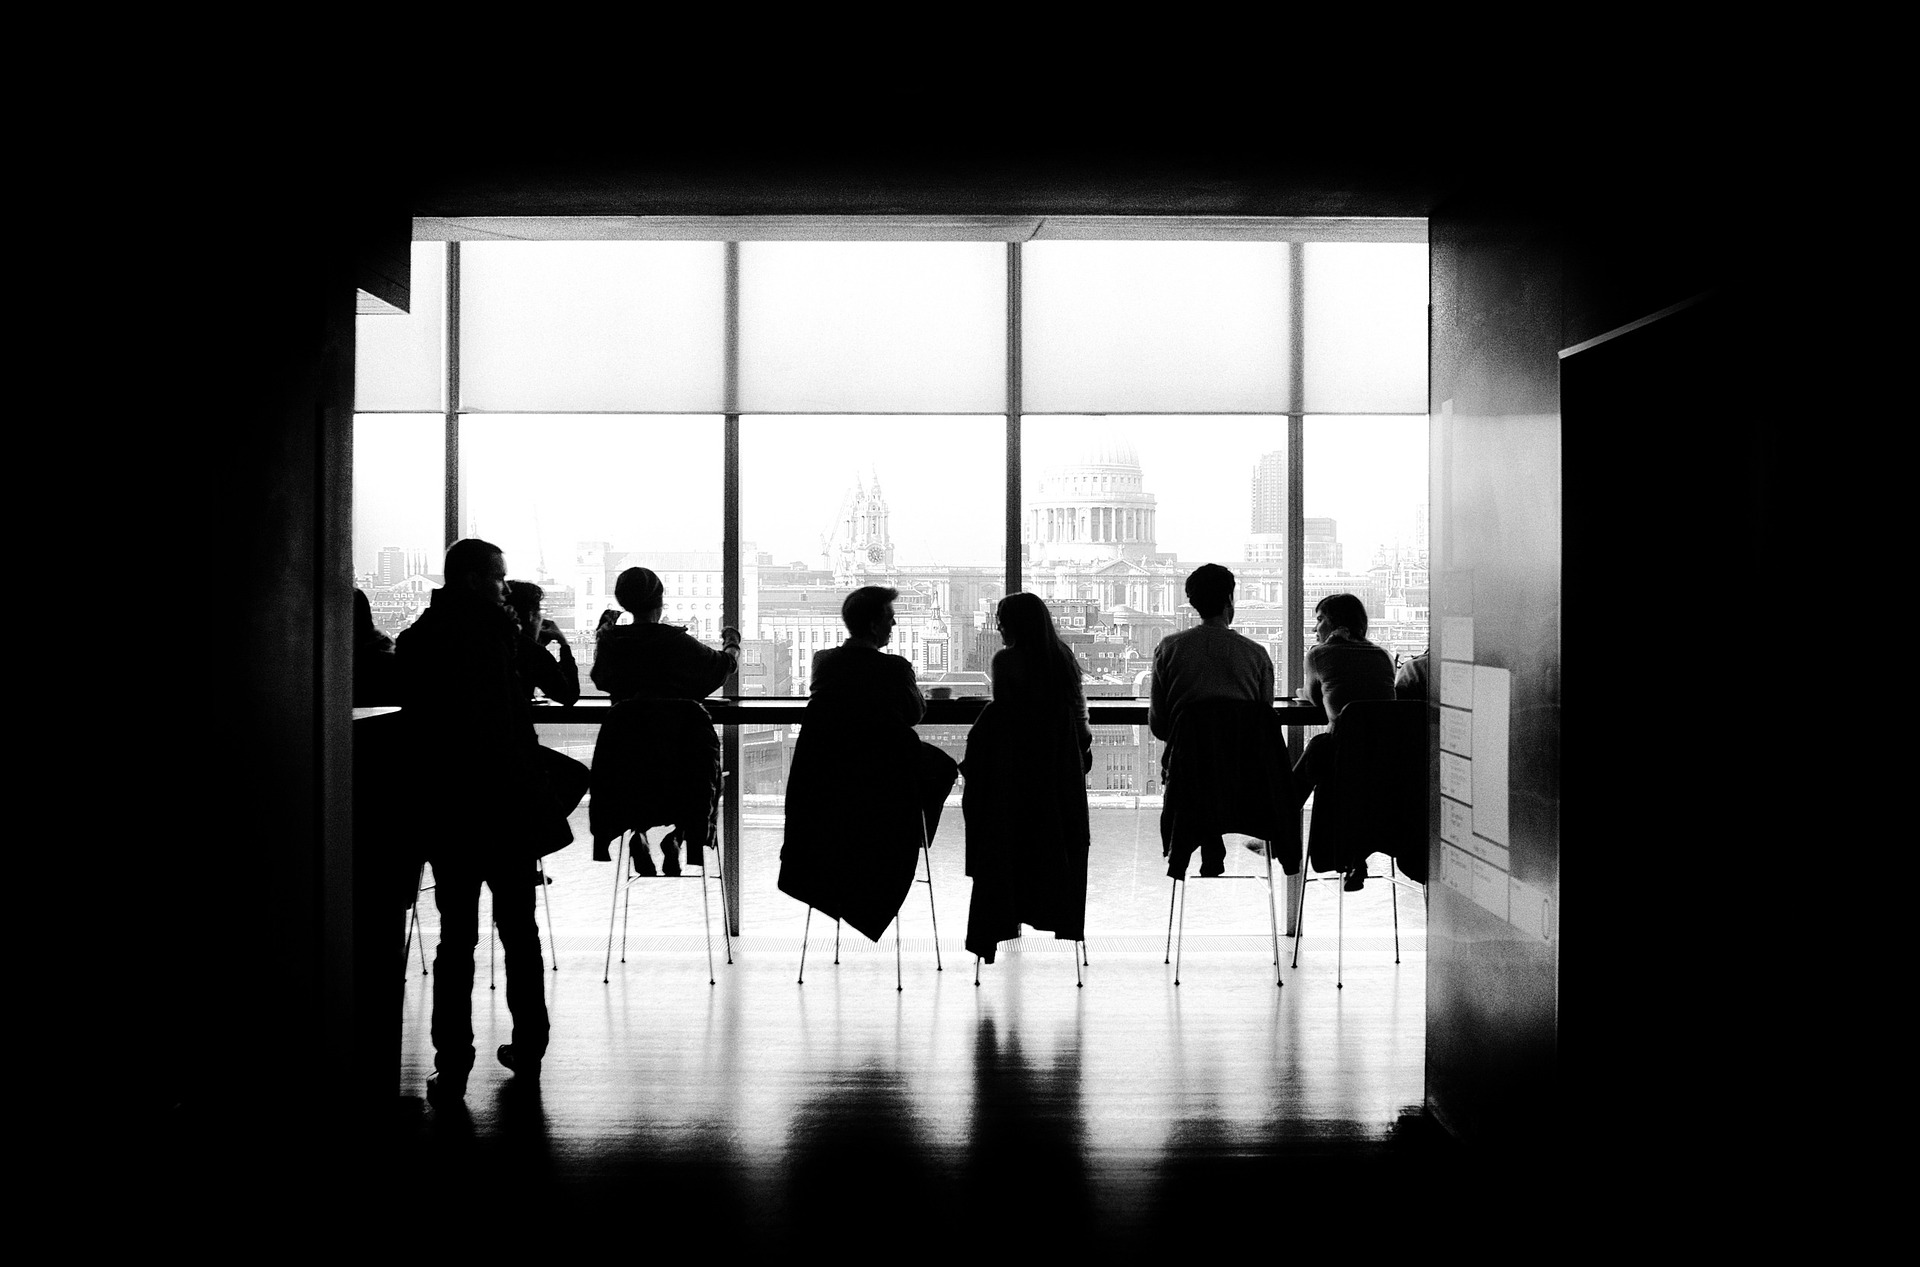
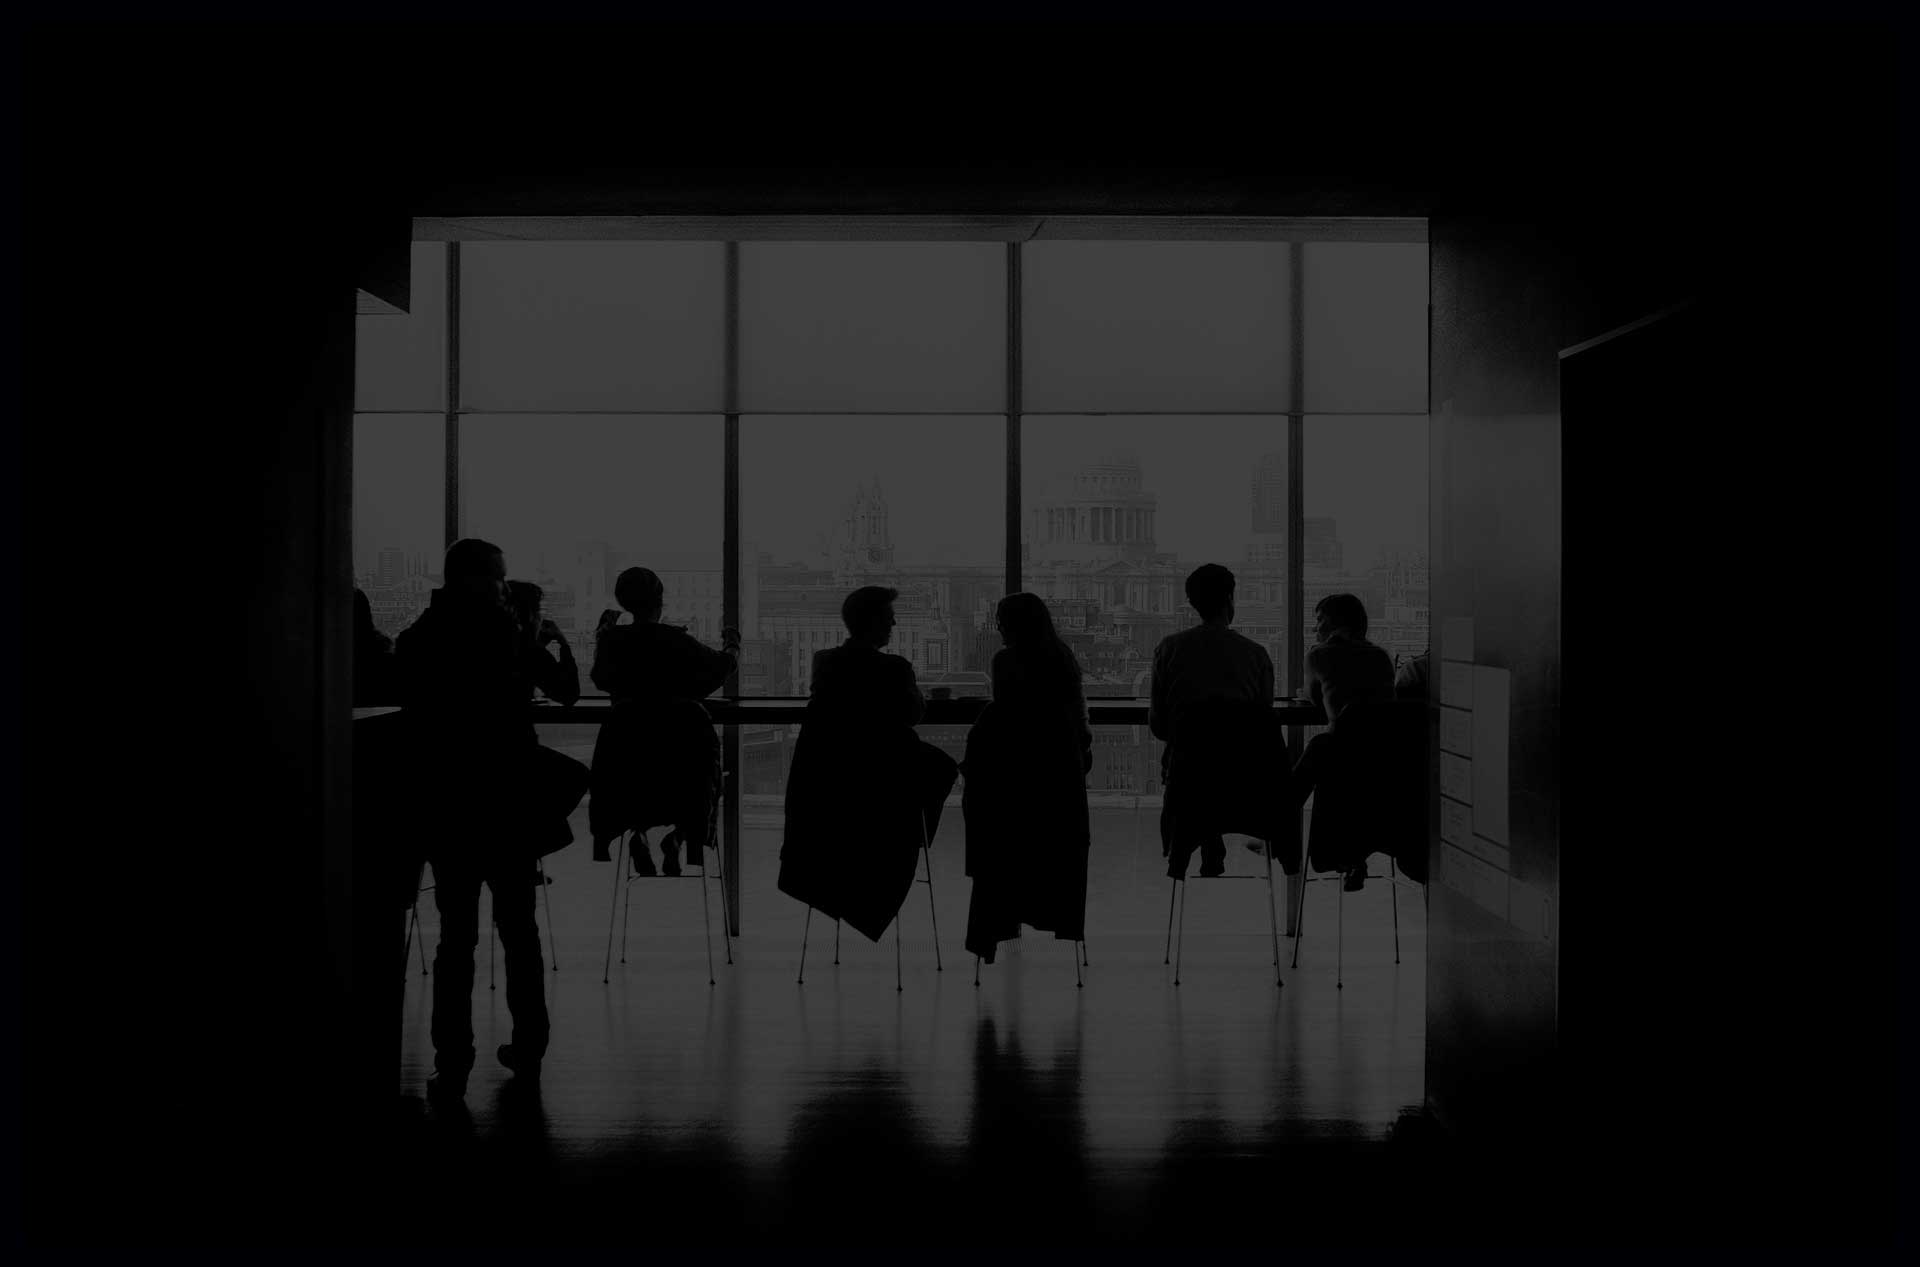
cambio de imagenes portadas

diff --git a/resources/js/Pages/Dante.jsx b/resources/js/Pages/Dante.jsx
@@ -30,7 +30,7 @@ const Dante = () => {
             <div style={{ backgroundColor: "#000000" }}>
                 <div className="portadaContacto">
                     <img
-                        src="/img/portadas/team21.png"
+                        src="/img/portadas/team21.jpg"
                         className="img-fluid"
                     ></img>
                 </div>

diff --git a/public/css/contacto.css b/public/css/contacto.css
@@ -8,7 +8,7 @@
 .portadaContacto img {
     object-fit: cover;
     width: 100%;
-    opacity: 0.2;
+    /* opacity: 0.2; */
 }
 
 .contacto_rounded {
